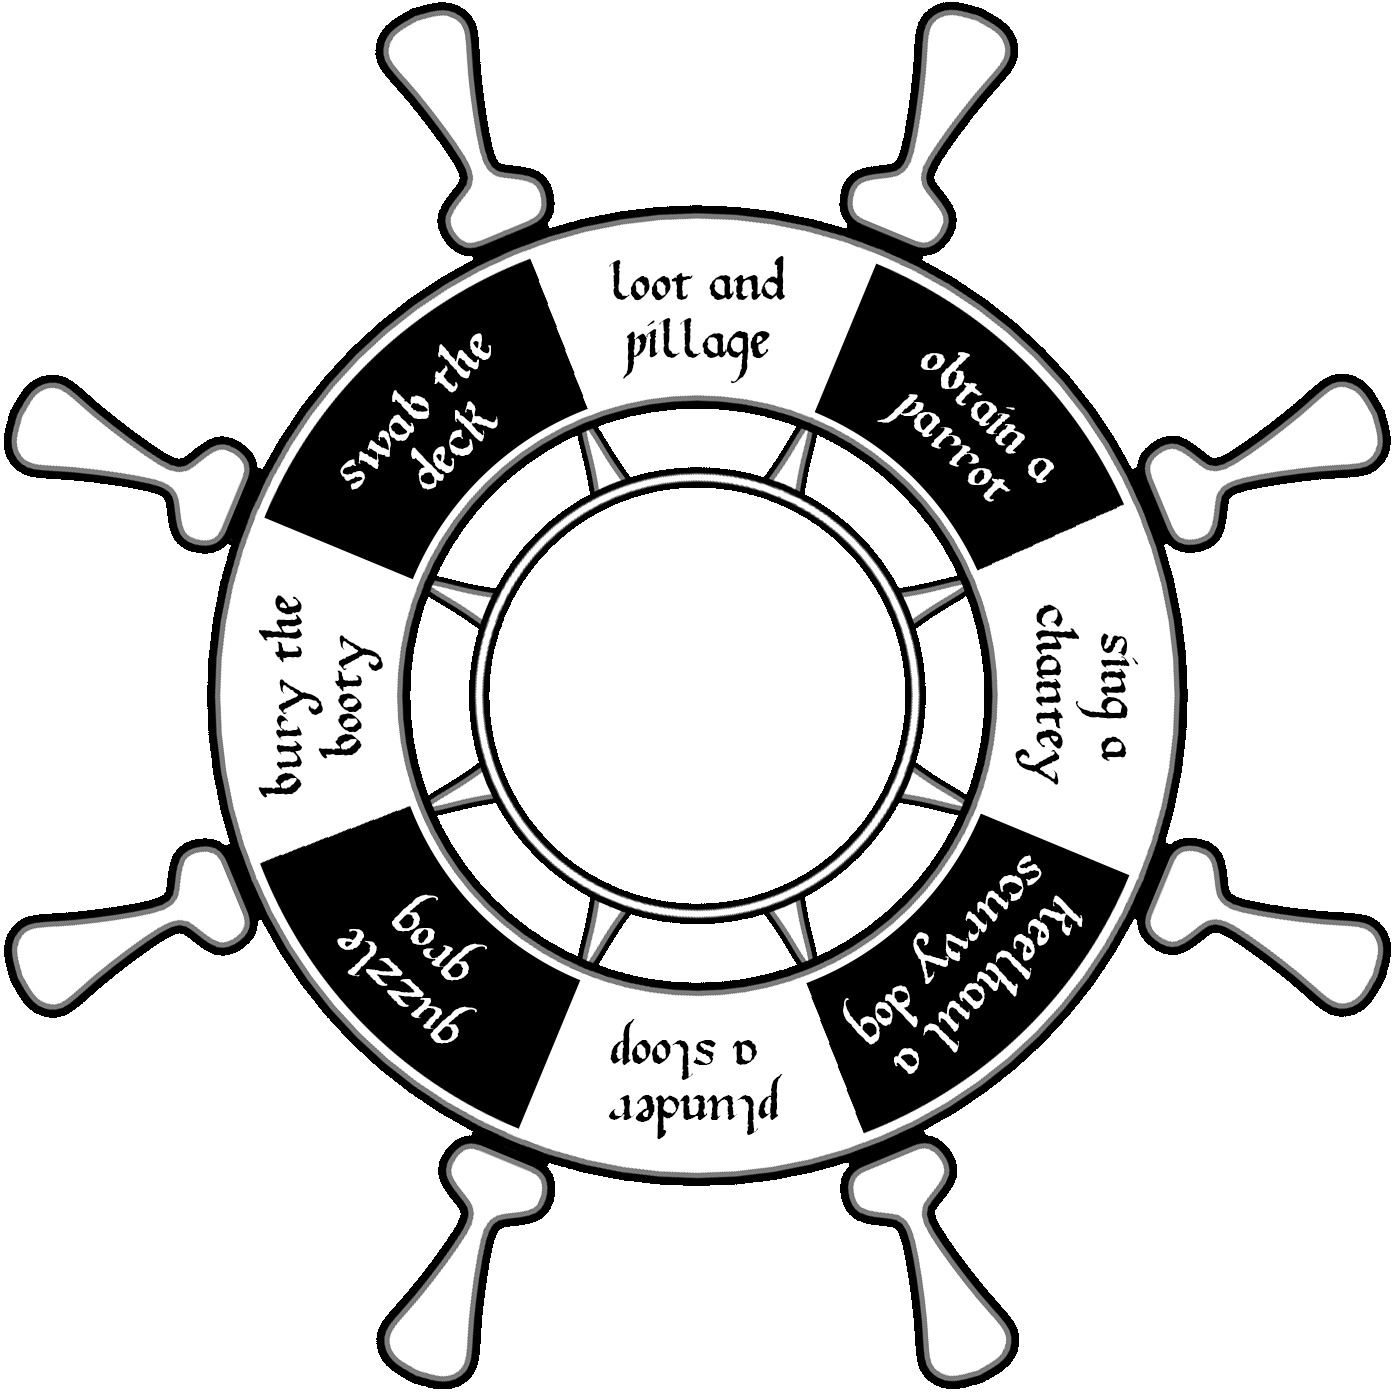
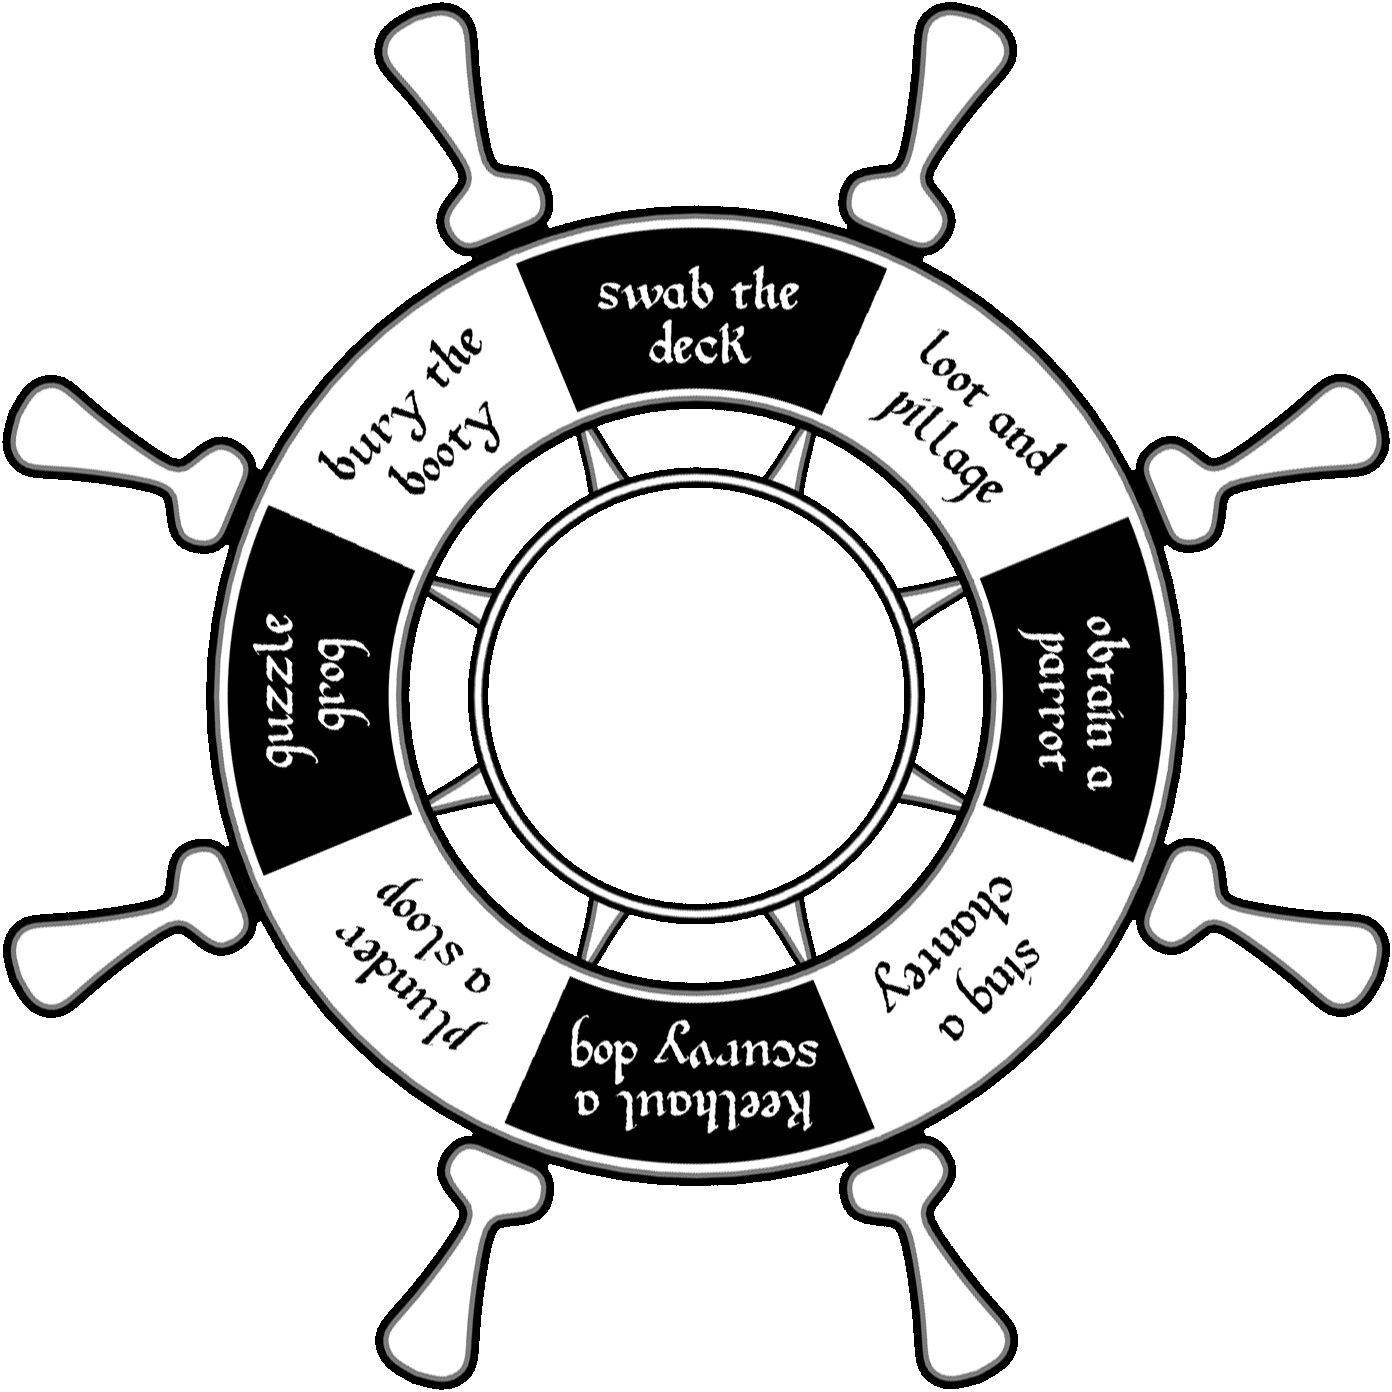
Makes the wheel start at a black field for better flame visibility

diff --git a/js/wwapd.js b/js/wwapd.js
@@ -13756,14 +13756,14 @@ $(function() {
   else localStorage.wwapd_render_mode = render_mode;
 
   var actions = [
-    'loot and pillage',
     'swab the deck',
     'bury the booty',
     'guzzle grog',
     'plunder a sloop',
     'keelhaul a scurvy dog',
     'sing a chantey',
-    'obtain a parrot'
+    'obtain a parrot',
+    'loot and pillage',
   ];
 
   var initialized       = false,

diff --git a/js/app.js b/js/app.js
@@ -30,14 +30,14 @@ $(function() {
   else localStorage.wwapd_render_mode = render_mode;
 
   var actions = [
-    'loot and pillage',
     'swab the deck',
     'bury the booty',
     'guzzle grog',
     'plunder a sloop',
     'keelhaul a scurvy dog',
     'sing a chantey',
-    'obtain a parrot'
+    'obtain a parrot',
+    'loot and pillage',
   ];
 
   var initialized       = false,
